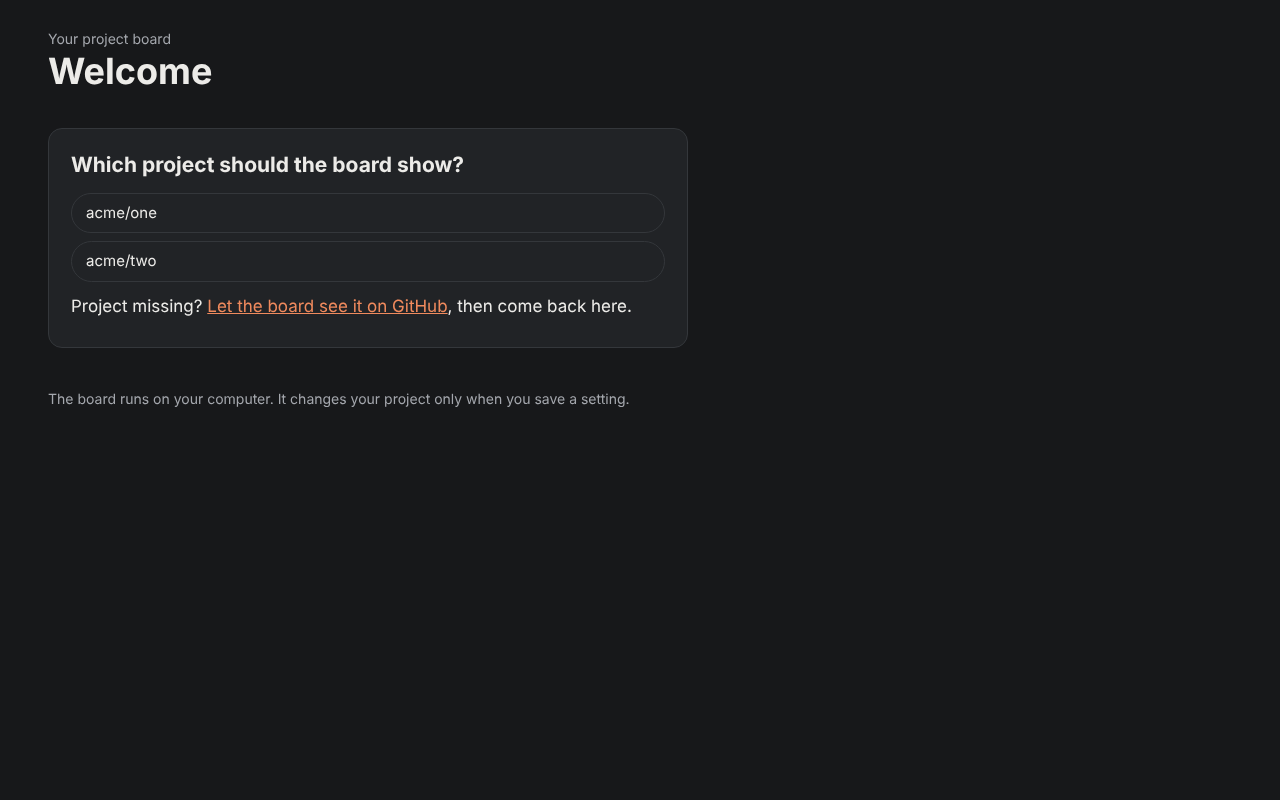
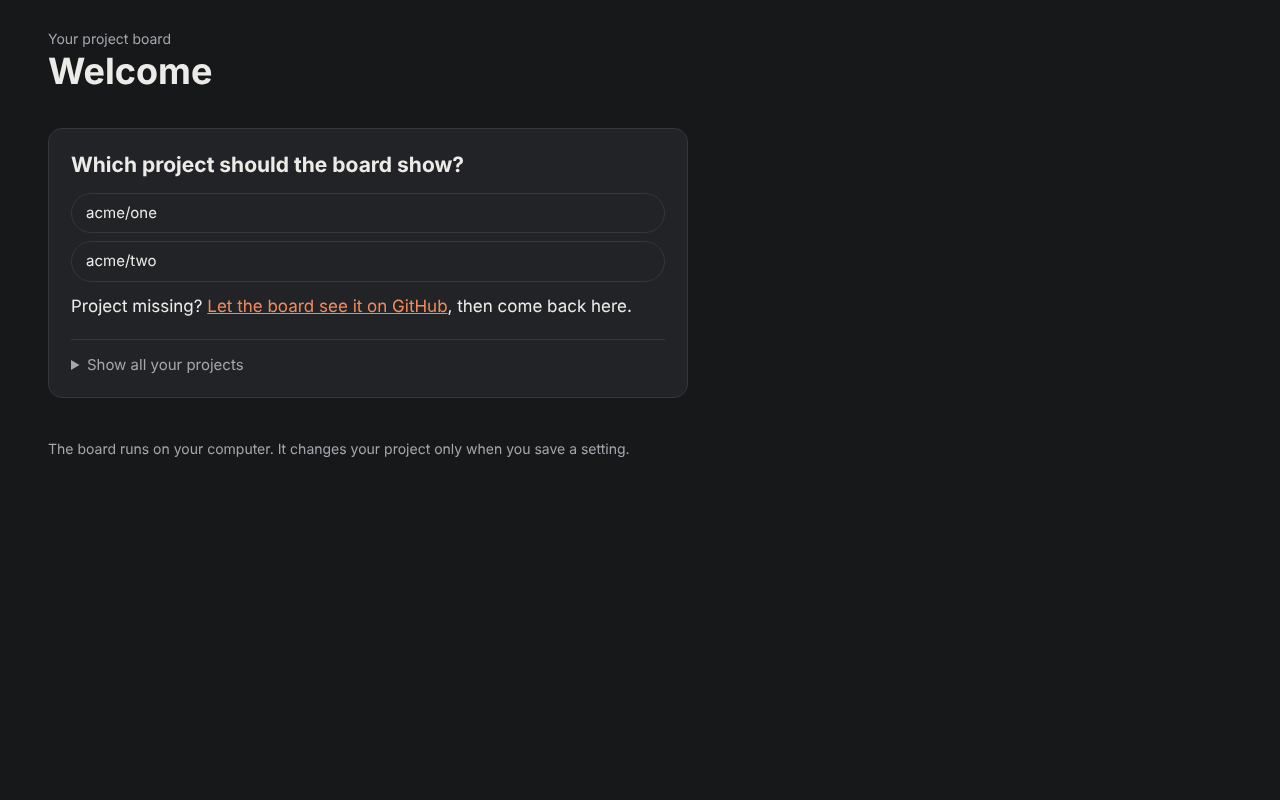
verification/29: round 2 PASS on 99d2d29 (F1 fixed)
F1 repro 2/2; AC1 41/41; AC2-AC4 and the changed code in page.mjs ok; #8, #10, #11, #16, npm test (79), typecheck and build pass.

Claude-Session: https://claude.ai/code/session_0155vpoV6Nc32FkUUAXZNFCt

diff --git a/verification/29/README.md b/verification/29/README.md
@@ -1,17 +1,21 @@
 # Verification of #29 (team projects first, and a next step when there's none)
 
-Round 1: **BLOCK** on `575c0e9`, one finding. The spec is `docs/changes/29.md` v1. Base is `5f6b2b6`.
+Round 2: **PASS** on `99d2d29`. The spec `docs/changes/29.md` v1 is unchanged. Base is `5f6b2b6`.
+Round 1 was a BLOCK on `575c0e9` (evidence `5018469`), and its one finding is fixed.
 
 Rows and how each one is checked: `checks.md`. Per-row results and notes: `verdict.json`.
+Tamper check: `git diff 5018469 99d2d29 -- verification/` is empty.
 
 ```
+$ NODE_PATH=$(npm root -g) node verification/29/f1_type_box.mjs   2 ok, exit 0 (F1 repro, run first)
 $ npm ci && rm -rf dist dist-server && npm run build    ok (base ok)
 $ npx tsc --noEmit                                       exit 0 (base 0)
 $ npm test                                               79 passed (base 75)
 $ bash .github/team/run-checks.sh                        32 run, ok (base 31 run, ok)
   #29 AC1 41/41; #8, #10, #11 and #16 all pass
-$ NODE_PATH=$(npm root -g) node verification/29/page.mjs      AC2, AC3, AC4 ok; F1 fails; 40 screenshots, no sideways scroll
-$ NODE_PATH=$(npm root -g) node verification/29/f1_type_box.mjs   2 failed
+$ NODE_PATH=$(npm root -g) node verification/29/page.mjs      all ok; 40 screenshots, no sideways scroll
 ```
 
-**F1. The box to type a project's name disappears when every project uses the team.** AC2 puts the box behind "Show all your projects (N more)". AC5 keeps #10 AC4: "a box to type owner/name". With two team projects and no others, the picker (first run, or after Change project) shows no "Show all your projects" and no box (`all-team-*.png`). With no projects at all, "No project yet" has no box either. Expected: the box can be reached from the picker whatever the list holds. CI has no browser, so `f1_type_box.mjs` is a by-hand repro: it exits 1 now and 0 once fixed.
+**F1 fixed.** The box to type a project's name can now be reached whatever the list holds. With only team projects, the picker shows "Show all your projects" with no count, no help line and no empty list, and a typed name opens that project (`all-team-*.png`). With no projects at all, "No project yet" has the same "Show all your projects" with the box.
+
+Round 2 changed only `web/setup.tsx`. The only check added is for that change: the R2 rows in `page.mjs`.
